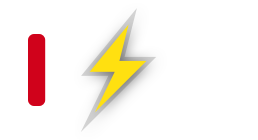
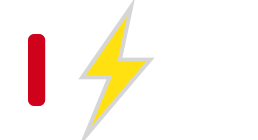
add more charging image

Changed region(s): [[0.3101, 0.0, 0.6202, 1.0]]

diff --git a/src/components/NormalBattery.js b/src/components/NormalBattery.js
@@ -1,43 +1,74 @@
 import React from 'react'
 
 import Battery0 from '../assets/images/normal/Battery_0.png'
+import Battery5 from '../assets/images/normal/Battery_5.png'
 import Battery10 from '../assets/images/normal/Battery_10.png'
+import Battery15 from '../assets/images/normal/Battery_15.png'
 import Battery20 from '../assets/images/normal/Battery_20.png'
+import Battery25 from '../assets/images/normal/Battery_25.png'
 import Battery30 from '../assets/images/normal/Battery_30.png'
+import Battery35 from '../assets/images/normal/Battery_35.png'
 import Battery40 from '../assets/images/normal/Battery_40.png'
+import Battery45 from '../assets/images/normal/Battery_45.png'
 import Battery50 from '../assets/images/normal/Battery_50.png'
+import Battery55 from '../assets/images/normal/Battery_55.png'
 import Battery60 from '../assets/images/normal/Battery_60.png'
+import Battery65 from '../assets/images/normal/Battery_65.png'
 import Battery70 from '../assets/images/normal/Battery_70.png'
+import Battery75 from '../assets/images/normal/Battery_75.png'
 import Battery80 from '../assets/images/normal/Battery_80.png'
+import Battery85 from '../assets/images/normal/Battery_85.png'
 import Battery90 from '../assets/images/normal/Battery_90.png'
+import Battery95 from '../assets/images/normal/Battery_95.png'
 import Battery100 from '../assets/images/normal/Battery_100.png'
 
 import '../assets/styles.css'
 
 const getImagePath = (percent) => {
-  if (percent > 90) {
+  if (percent > 95) {
     return Battery100
-  } else if (percent > 80) {
+  } else if (percent > 90) {
+    return Battery95
+  } else if (percent > 85) {
     return Battery90
-  } else if (percent > 70) {
+  } else if (percent > 80) {
+    return Battery85
+  } else if (percent > 75) {
     return Battery80
-  } else if (percent > 60) {
+  } else if (percent > 70) {
+    return Battery75
+  } else if (percent > 65) {
     return Battery70
-  } else if (percent > 50) {
+  } else if (percent > 60) {
+    return Battery65
+  } else if (percent > 55) {
     return Battery60
-  } else if (percent > 40) {
+  } else if (percent > 50) {
+    return Battery55
+  } else if (percent > 45) {
     return Battery50
-  } else if (percent > 30) {
+  } else if (percent > 40) {
+    return Battery45
+  } else if (percent > 35) {
     return Battery40
-  } else if (percent > 20) {
+  } else if (percent > 30) {
+    return Battery35
+  } else if (percent > 25) {
     return Battery30
-  } else if (percent > 10) {
+  } else if (percent > 20) {
+    return Battery25
+  } else if (percent > 15) {
     return Battery20
+  } else if (percent > 10) {
+    return Battery15
   } else if (percent > 5) {
     return Battery10
+  } else if (percent > 0) {
+    return Battery5
   }
   return Battery0
 }
+
 
 const NormalBattery = ({ percentage }) => {
   return (

diff --git a/src/components/ChargingBattery.js b/src/components/ChargingBattery.js
@@ -1,40 +1,70 @@
 import React from 'react'
 
 import Battery0 from '../assets/images/charging/Battery_0.png'
+import Battery5 from '../assets/images/charging/Battery_5.png'
 import Battery10 from '../assets/images/charging/Battery_10.png'
+import Battery15 from '../assets/images/charging/Battery_15.png'
 import Battery20 from '../assets/images/charging/Battery_20.png'
+import Battery25 from '../assets/images/charging/Battery_25.png'
 import Battery30 from '../assets/images/charging/Battery_30.png'
+import Battery35 from '../assets/images/charging/Battery_35.png'
 import Battery40 from '../assets/images/charging/Battery_40.png'
+import Battery45 from '../assets/images/charging/Battery_45.png'
 import Battery50 from '../assets/images/charging/Battery_50.png'
+import Battery55 from '../assets/images/charging/Battery_55.png'
 import Battery60 from '../assets/images/charging/Battery_60.png'
+import Battery65 from '../assets/images/charging/Battery_65.png'
 import Battery70 from '../assets/images/charging/Battery_70.png'
+import Battery75 from '../assets/images/charging/Battery_75.png'
 import Battery80 from '../assets/images/charging/Battery_80.png'
+import Battery85 from '../assets/images/charging/Battery_85.png'
 import Battery90 from '../assets/images/charging/Battery_90.png'
+import Battery95 from '../assets/images/charging/Battery_95.png'
 import Battery100 from '../assets/images/charging/Battery_100.png'
 
 import '../assets/styles.css'
 
 const getImagePath = (percent) => {
-  if (percent > 90) {
+  if (percent > 95) {
     return Battery100
-  } else if (percent > 80) {
+  } else if (percent > 90) {
+    return Battery95
+  } else if (percent > 85) {
     return Battery90
-  } else if (percent > 70) {
+  } else if (percent > 80) {
+    return Battery85
+  } else if (percent > 75) {
     return Battery80
-  } else if (percent > 60) {
+  } else if (percent > 70) {
+    return Battery75
+  } else if (percent > 65) {
     return Battery70
-  } else if (percent > 50) {
+  } else if (percent > 60) {
+    return Battery65
+  } else if (percent > 55) {
     return Battery60
-  } else if (percent > 40) {
+  } else if (percent > 50) {
+    return Battery55
+  } else if (percent > 45) {
     return Battery50
-  } else if (percent > 30) {
+  } else if (percent > 40) {
+    return Battery45
+  } else if (percent > 35) {
     return Battery40
-  } else if (percent > 20) {
+  } else if (percent > 30) {
+    return Battery35
+  } else if (percent > 25) {
     return Battery30
-  } else if (percent > 10) {
+  } else if (percent > 20) {
+    return Battery25
+  } else if (percent > 15) {
     return Battery20
+  } else if (percent > 10) {
+    return Battery15
   } else if (percent > 5) {
     return Battery10
+  } else if (percent > 0) {
+    return Battery5
   }
   return Battery0
 }
